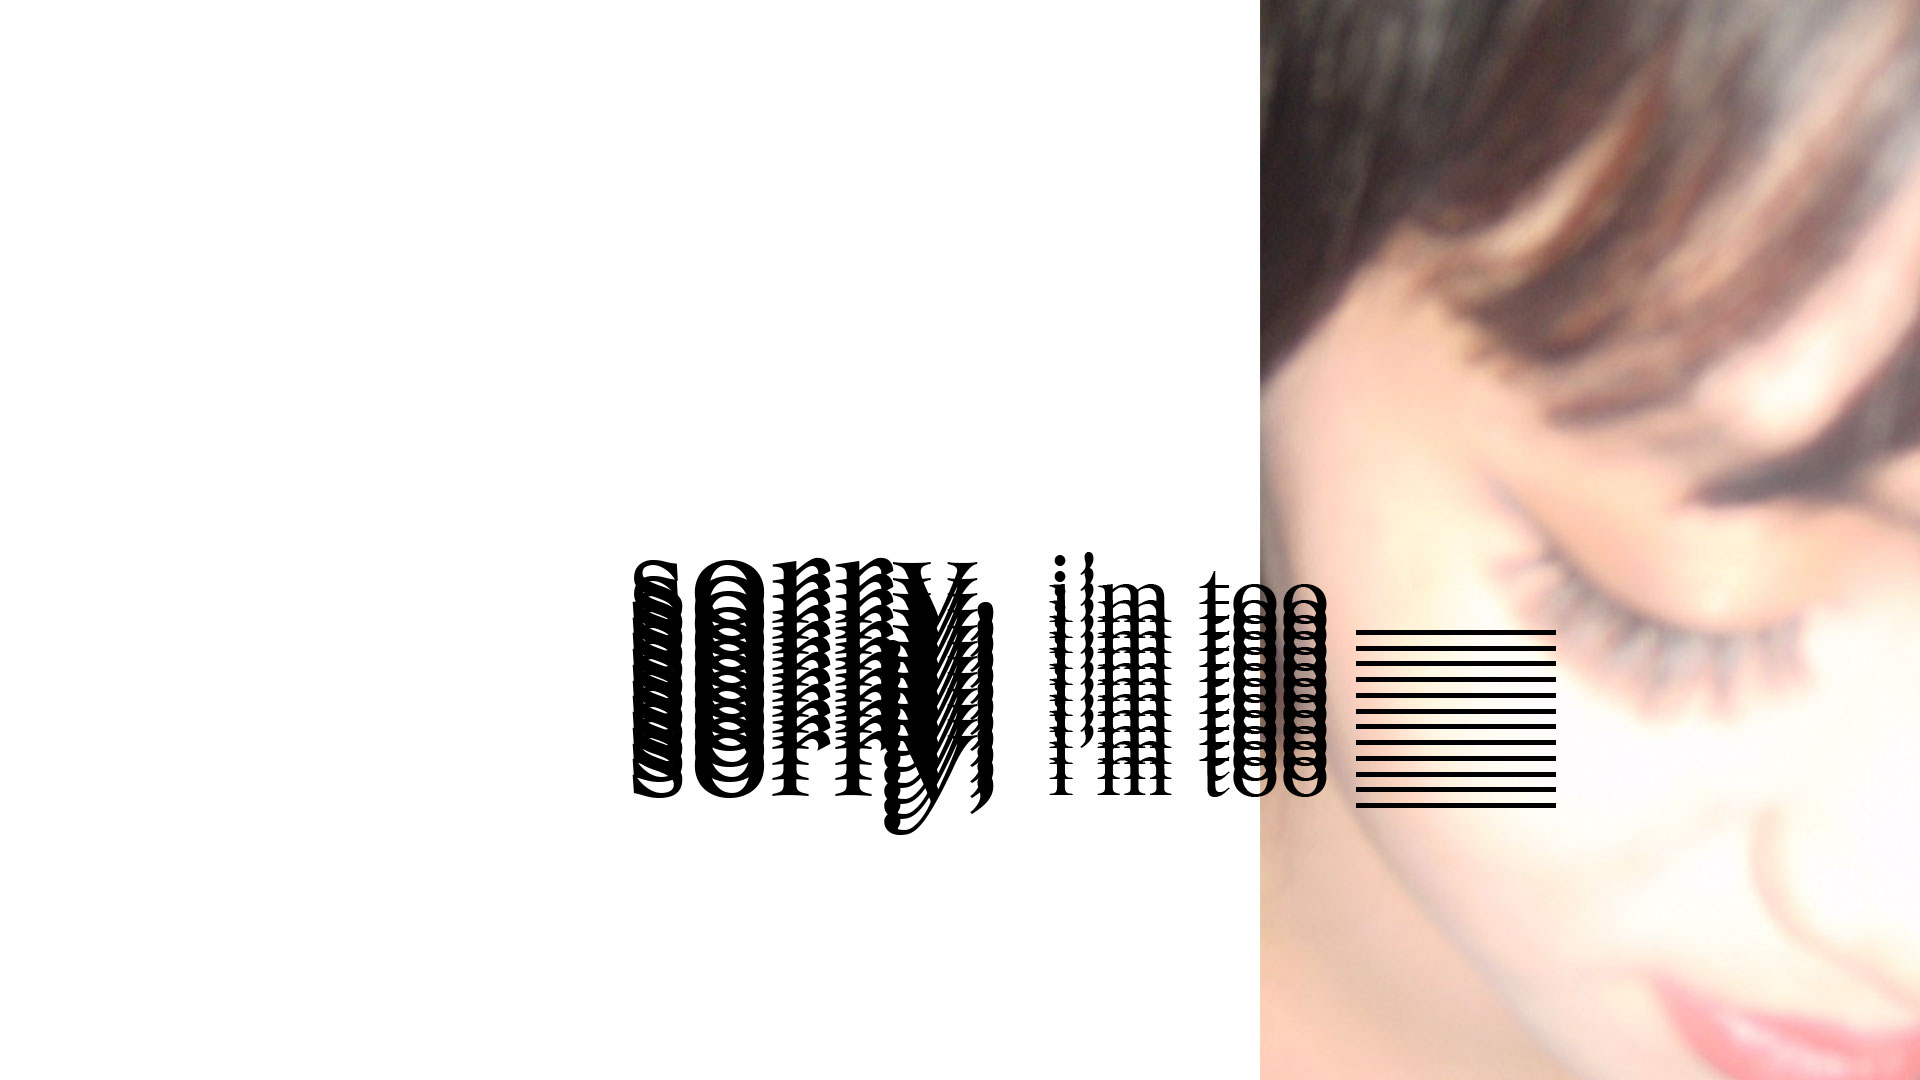
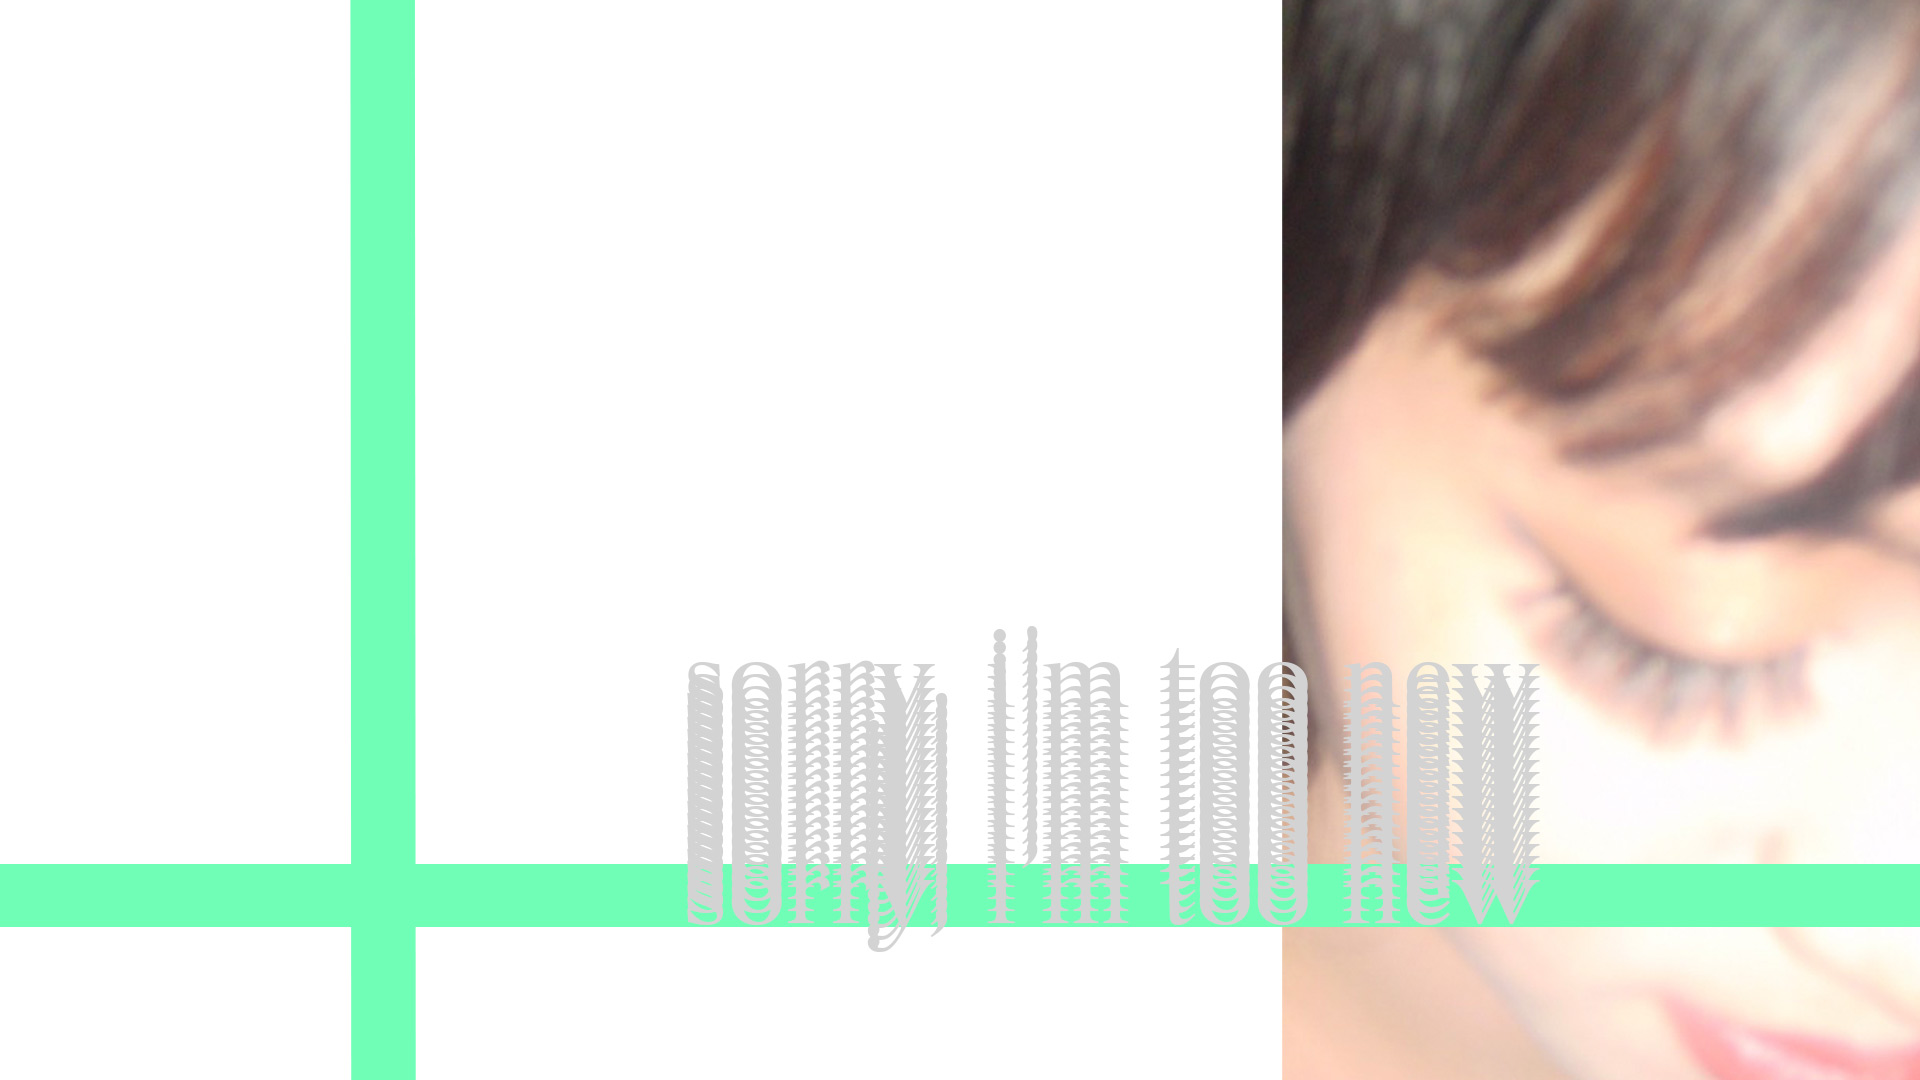
bg

diff --git a/style.css b/style.css
@@ -88,7 +88,7 @@ a {
 }
 
 a:hover {
-    background-color: #02f67b;
+    background-color: #70feb6;
     transition: 0.7s;
 }
 

diff --git a/blog.css b/blog.css
@@ -47,7 +47,7 @@ table {
 
 
 body {
-    background-color: #efd6cb;
+    background-color: #d3d3d3;
 }
 
 .content {
